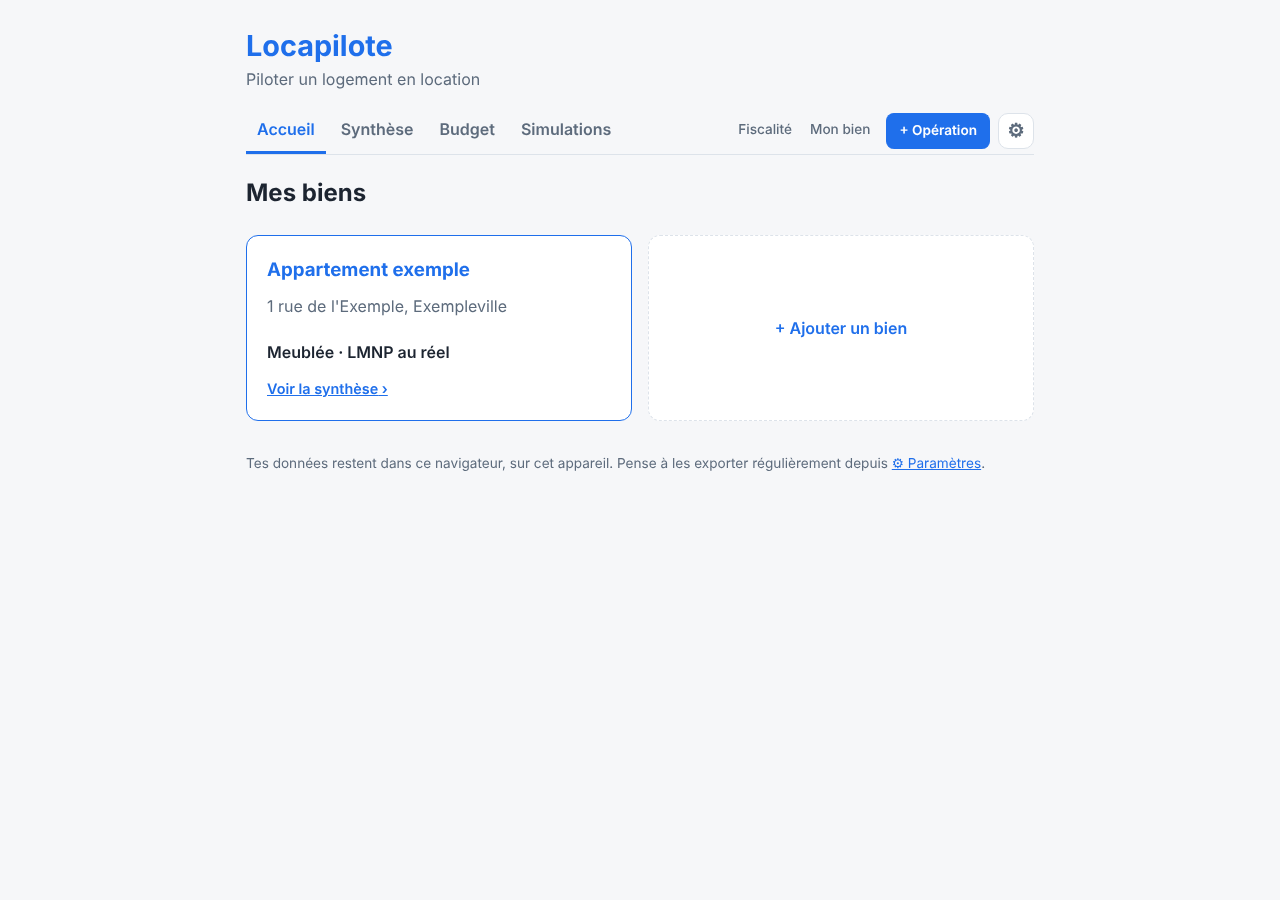
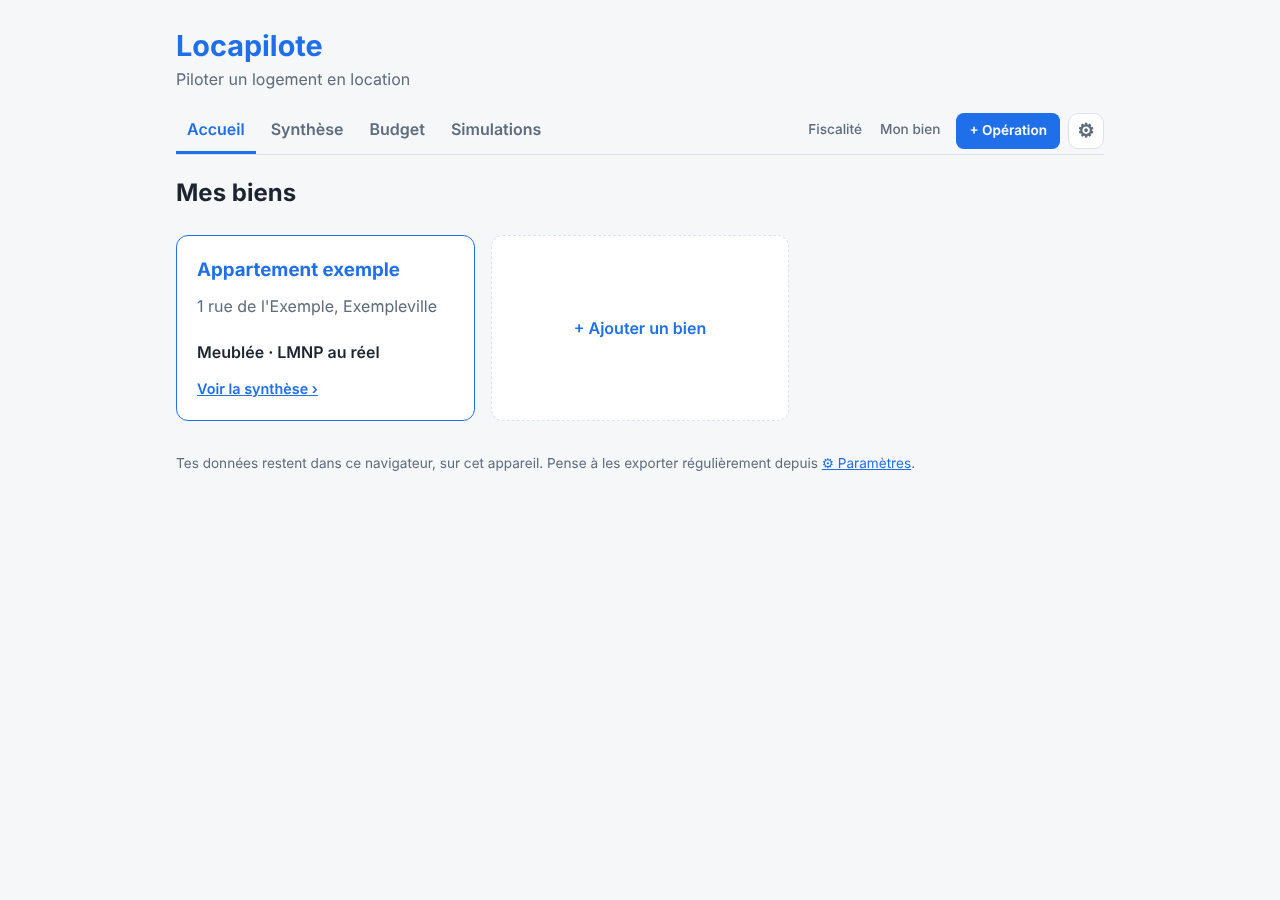
Élargit la page à 960 px sur ordinateur
La Synthèse (libellés sur une ligne et trois années) tient ainsi sans
défilement, même avec une police plus large comme celle de la CI.

Claude-Session: https://claude.ai/code/session_01UFsouoUKRZkCHxgh2qP2Kk

diff --git a/src/ui/styles.css b/src/ui/styles.css
@@ -51,7 +51,7 @@ body {
 }
 
 .page {
-  max-width: 820px;
+  max-width: 960px;
   margin: 0 auto;
   padding: 24px 16px 48px;
 }
